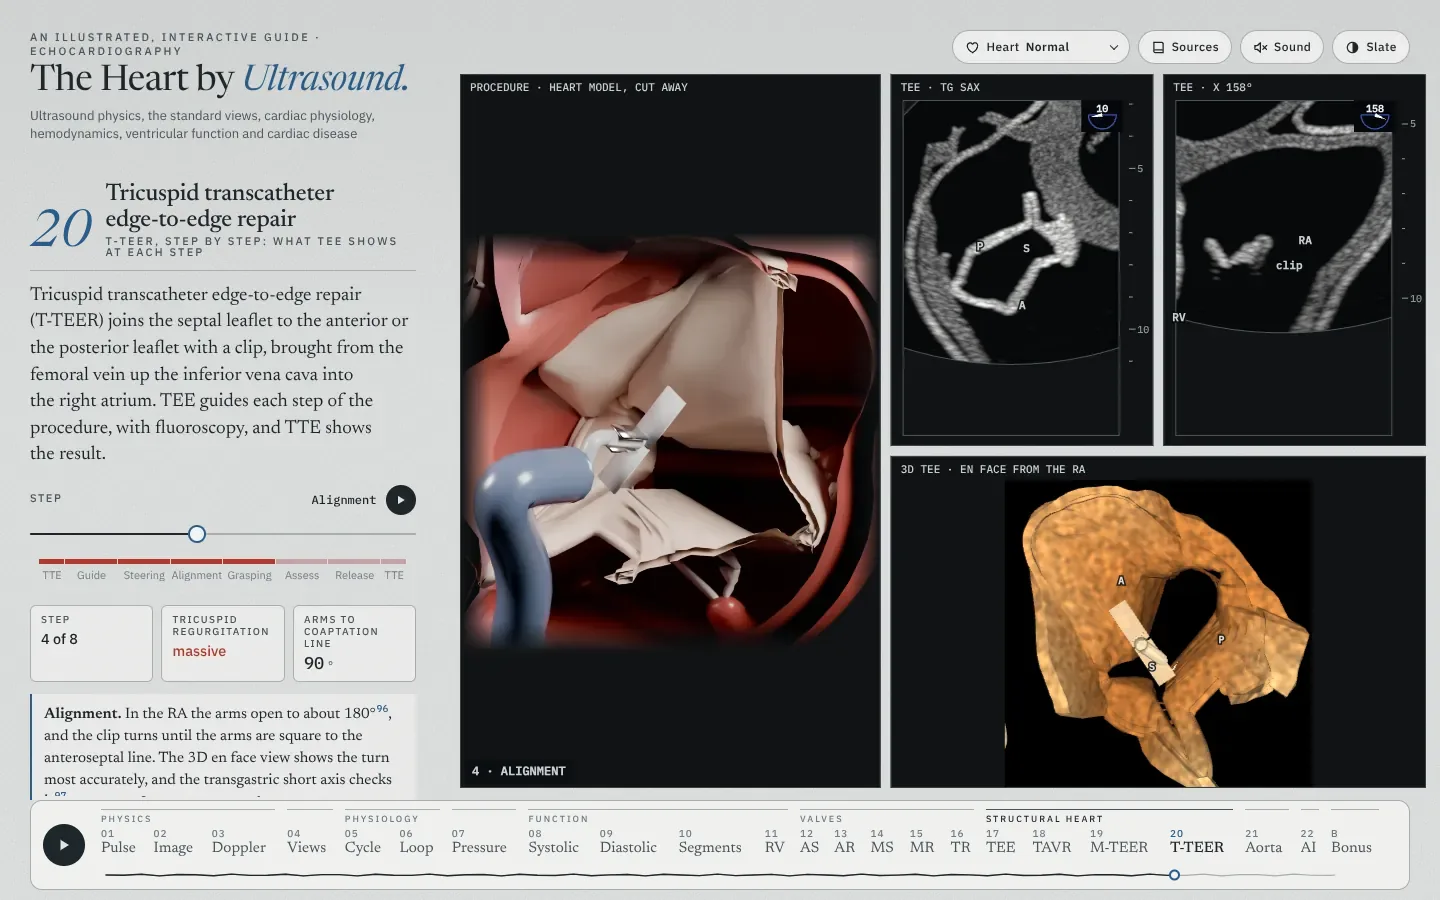
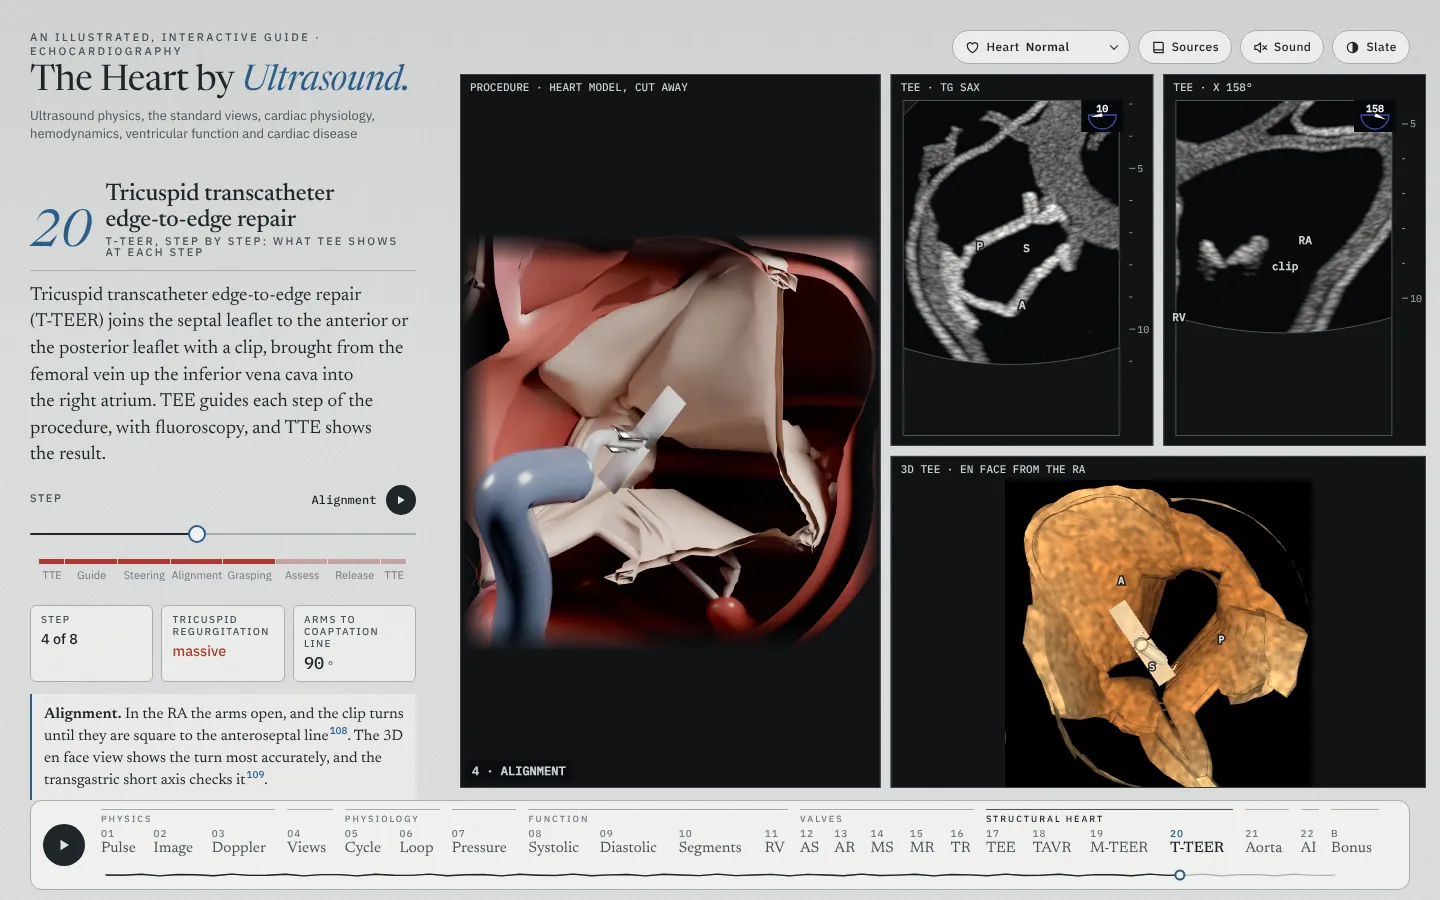
T-TEER: name no company or device, in the chapter and the reel
David asked for the M-TEER rule (aaa8f81) in the T-TEER chapter and in
the reel.

- index.html, chapter 20: the device paragraph in general terms. It
  gives a steerable guide from the femoral vein up the IVC, its 25 Fr
  shaft, an implant with two arms and a gripper over each, the arms'
  sizes and the FDA approval. It gives no name, maker, generation or
  size code. "The anatomy for a clip" is now "The anatomy for TEER".
- The instructions for use and the product page are no longer cited.
  Their statements cite Onishi 2026 (Table 2), Hahn 2025 or the FDA
  panel summary, or they are gone. The arms open in the RA (no angle);
  the clip is closed before it crosses the valve; below it, the arms
  open to 120-150 degrees.
- src/ch/tteer.js: the step notes of the guide, the alignment and the
  grasp follow. The code comments of tteer.js and gl/tteermesh.js name
  no device.
- src/refs.js: the product page is gone, because nothing cites it.
- docs/screenshots/tteer.webp: retaken (the alignment note).
- Reel: the route line says "The clip enters the femoral vein" (seed
  303: VEE-nuh KAY-vuh, read by a phoneme model). The title cards say
  "Transcatheter edge-to-edge repair (T-TEER)". The source lines name
  Onishi 2026, Hahn 2025 and the FDA panel summary. claims.yaml: C34
  and C35 have new sources, C98 and C99 are new, and C93 stays as a
  record. brief.md and assets.yaml follow.
- DEVELOPMENT.md: the reel is 76 s.
[…]

diff --git a/index.html b/index.html
@@ -1903,18 +1903,18 @@
       <p class="live"></p>
       <div class="prose" data-part="prose">
         <h3>The device</h3>
-        <p>The TriClip G4 System (Abbott) brings a clip to the tricuspid valve from the femoral vein<span class="cite" data-ref="fdap230007c"></span>. Its steerable guide catheter has a 25 Fr shaft<span class="cite" data-ref="fdap230007c"></span>. The clip comes in four sizes: arms 9 mm long (NT, NTW) or 12 mm long (XT, XTW), and 4 mm wide or, in the W sizes, 6 mm wide<span class="cite" data-ref="hahn2025,fdap230007c"></span>. The FDA approved it on April 1, 2024, to improve quality of life and functional status in symptomatic severe TR despite optimal medical therapy, at intermediate or greater surgical risk, when a heart team judges the repair appropriate and expects TR of moderate or less<span class="cite" data-ref="fdap230007"></span>. Abbott now sells a fifth generation (G5) in four sizes with the same names<span class="cite" data-ref="abbotttriclip"></span>.</p>
+        <p>A steerable guide catheter enters the femoral vein, usually the right one, and runs up the inferior vena cava to the right atrium<span class="cite" data-ref="onishi2026,hahn2025"></span>. Its shaft is 25 Fr<span class="cite" data-ref="fdapanel2024"></span>. The delivery system goes through it and carries the implant: two rigid arms, with a flexible gripper over each that drops on its own<span class="cite" data-ref="hahn2025"></span>. The arms are 9 or 12 mm long, and 4 or 6 mm wide<span class="cite" data-ref="hahn2025"></span>. The FDA approved a tricuspid TEER system on April 1, 2024, to improve quality of life and functional status in symptomatic severe TR despite optimal medical therapy, at intermediate or greater surgical risk, when a heart team judges the repair appropriate and expects TR of moderate or less<span class="cite" data-ref="fdap230007"></span>.</p>
         <h3>Who is treated</h3>
         <p>TRILUMINATE Pivotal randomly assigned patients with symptomatic severe TR to TEER with medical therapy or to medical therapy alone<span class="cite" data-ref="sorajja2023"></span>. In the first 350 patients, the hierarchical primary end point (death or tricuspid surgery, then heart failure hospitalization, then a gain of at least 15 points in the KCCQ score at 1 year) favored TEER, with a win ratio of 1.48<span class="cite" data-ref="sorajja2023"></span>. At 30 days, TR was moderate or less in 87.0% and 4.8%; at 1 year, the KCCQ score rose by 12.3 and 0.6 points<span class="cite" data-ref="sorajja2023"></span>. Death or surgery and heart failure hospitalization did not appear to differ at 1 year; quality of life carried the result<span class="cite" data-ref="sorajja2023,fdap230007b"></span>. In all 572 randomized patients, heart failure hospitalizations through 2 years were fewer with TEER (0.19 against 0.26 per patient-year), mortality was 17.9% and 17.1%, and 61.5% of the controls crossed over to a tricuspid intervention<span class="cite" data-ref="kar2025"></span>. In Tri.Fr (300 patients), a composite clinical score improved at 1 year in 74.1% with TEER and 40.6% with medical therapy alone<span class="cite" data-ref="donal2025"></span>.</p>
         <p>The 2025 ESC/EACTS guidelines give transcatheter treatment a class IIa recommendation (level A) to improve quality of life and RV remodeling in high-risk patients with symptomatic severe TR despite optimal medical therapy, without severe RV dysfunction or pre-capillary pulmonary hypertension<span class="cite" data-ref="praz2025"></span>.</p>
-        <h3>The anatomy for a clip</h3>
+        <h3>The anatomy for TEER</h3>
         <p>TRILUMINATE excluded a coaptation defect over 2 cm, calcium in the grasping area, and leads that would prevent placement of the clip<span class="cite" data-ref="fdap230007b"></span>, and a valve area of 1.0 cm² or less or a mean gradient of 5 mmHg or more<span class="cite" data-ref="fdapanel2024"></span>. A small gap and a central or anteroseptal jet predicted success in an early series<span class="cite" data-ref="besler2018"></span>; in bRIGHT, the 30-day reduction of TR was similar for gaps under 7 mm, 7–10 mm and over 10 mm<span class="cite" data-ref="donal2024"></span>. In selected patients with a transvalvular pacemaker or defibrillator lead, TR was moderate or less at 30 days as often as without one (88% and 87%)<span class="cite" data-ref="naik2025"></span>.</p>
         <h3>The steps on TEE</h3>
         <ol class="steps">
         <li><b>Guide in the RA.</b> The guide comes up the IVC. The bicaval view at about 90°, with biplane or live 3D, tracks it clear of the septum, the Eustachian valve, a Chiari network and leads<span class="cite" data-ref="hahn2025"></span>.</li>
         <li><b>Steering.</b> The delivery system flexes down toward the annulus; the imager follows it from the bicaval to the four-chamber view, then to the RV inflow view and its biplane pair<span class="cite" data-ref="hahn2025,onishi2026"></span>.</li>
-        <li><b>Alignment.</b> In the RA the arms open to about 180°<span class="cite" data-ref="fdap230007c"></span>, and the clip turns until they lie square to the target line of coaptation: most accurately on the 3D en face view, or on the transgastric short axis<span class="cite" data-ref="hahn2025"></span>. Without a focal defect, the anteroseptal line, usually the longest, comes first<span class="cite" data-ref="hahn2025"></span>. The septal leaflet is grasped with the anterior or the posterior leaflet: a grasp of the anterior and posterior leaflets alone has not been shown to reduce TR<span class="cite" data-ref="onishi2026"></span>. In the RA, each gripper is lowered and raised in turn to check its leaflet<span class="cite" data-ref="hahn2025,onishi2026"></span>.</li>
-        <li><b>Grasping.</b> The arms close to 60° or less, and the clip goes below the valve; the arms open to the grasping angle, the delivery catheter comes back, and the grippers drop onto the leaflets<span class="cite" data-ref="fdap230007c"></span>, slowly and in diastole<span class="cite" data-ref="onishi2026"></span>. 2D views at 0–20° or about 140–160°, the biplane pair from the RV inflow-outflow view with its cursor through the device, or 3D multiplanar reconstruction guide the grasp<span class="cite" data-ref="hahn2025"></span>. The systolic bounce of the grippers may not show on the low-pressure right side<span class="cite" data-ref="hahn2025"></span>; when it shows, it confirms the capture<span class="cite" data-ref="onishi2026"></span>. A tissue bridge on the transgastric short axis or in 3D confirms the insertion; the residual leaflet length, used on the mitral valve, is less reliable here, as the leaflets stretch<span class="cite" data-ref="onishi2026"></span>.</li>
+        <li><b>Alignment.</b> In the RA the arms open, and the clip turns until they lie square to the target line of coaptation<span class="cite" data-ref="onishi2026"></span>: most accurately on the 3D en face view, or on the transgastric short axis<span class="cite" data-ref="hahn2025"></span>. Without a focal defect, the anteroseptal line, usually the longest, comes first<span class="cite" data-ref="hahn2025"></span>. The septal leaflet is grasped with the anterior or the posterior leaflet: a grasp of the anterior and posterior leaflets alone has not been shown to reduce TR<span class="cite" data-ref="onishi2026"></span>. In the RA, each gripper is lowered and raised in turn to check its leaflet<span class="cite" data-ref="hahn2025,onishi2026"></span>.</li>
+        <li><b>Grasping.</b> The clip is closed before it goes below the valve, to keep the leaflets clear of the grippers<span class="cite" data-ref="onishi2026"></span>. There the arms open to 120–150°, the delivery catheter comes back, and the grippers drop onto the leaflets, slowly and in diastole<span class="cite" data-ref="onishi2026"></span>. 2D views at 0–20° or about 140–160°, the biplane pair from the RV inflow-outflow view with its cursor through the device, or 3D multiplanar reconstruction guide the grasp<span class="cite" data-ref="hahn2025"></span>. The systolic bounce of the grippers may not show on the low-pressure right side<span class="cite" data-ref="hahn2025"></span>; when it shows, it confirms the capture<span class="cite" data-ref="onishi2026"></span>. A tissue bridge on the transgastric short axis or in 3D confirms the insertion; the residual leaflet length, used on the mitral valve, is less reliable here, as the leaflets stretch<span class="cite" data-ref="onishi2026"></span>.</li>
         <li><b>Assessment.</b> Before release, TEE checks the insertion again, the reduction of TR and the gradient<span class="cite" data-ref="onishi2026"></span>. The 3D vena contracta area grades the residual TR best, as PISA tends to overestimate it with a clip in place<span class="cite" data-ref="hahn2025"></span>. TVARC asks for a mean gradient under 5 mmHg<span class="cite" data-ref="hahn2023"></span>. In the TriValve registry (top quartile 4.7 mmHg), a higher discharge gradient was not associated with death or heart failure hospitalization at 1 year<span class="cite" data-ref="coisne2023"></span>.</li>
         <li><b>Release.</b> The clip is released, the delivery catheter comes out of it, and the system is withdrawn<span class="cite" data-ref="onishi2026"></span>. In TRILUMINATE, a mean of 2.2 clips was implanted, two or three in about 85% of the patients<span class="cite" data-ref="fdap230007b"></span>; the figure shows the first.</li>
         </ol>

diff --git a/src/ch/tteer.js b/src/ch/tteer.js
@@ -1,4 +1,4 @@
-// Tricuspid transcatheter edge-to-edge repair (T-TEER) with a clip (the TriClip), by the
+// Tricuspid transcatheter edge-to-edge repair (T-TEER) with a clip, by the
 // transfemoral venous route. One slider steps through the procedure, and the figure is the screen
 // that the interventional echocardiographer reads at each step. The case is massive secondary TR
 // with a central coaptation gap (gl/tteermesh.js ttGap), in the dilated RV and RA of chapter
@@ -817,13 +817,13 @@ function liveOf(k, cite) {
     case 'before':
       return `<b>Massive secondary TR.</b> The RV and the annulus are dilated, and the leaflets no longer meet: a central gap lets a wide jet into the RA. Vena contracta ${fmt(BEFORE.vc, 1)} cm, PISA EROA ${fmt(BEFORE.eroa, 2)} cm², in the massive grade of the five-grade scale${cite('hahn2023')}; the hepatic veins show systolic flow reversal${cite('zoghbi2017')}.`;
     case 'guide':
-      return `<b>Guide in the RA.</b> From the femoral vein, the steerable guide comes up the IVC into the RA${cite('fdap230007c')}. Here the four-chamber and RV inflow-outflow views show its tip above the valve; the bicaval view keeps it clear of the septum, the Eustachian valve and leads${cite('hahn2025')}.`;
+      return `<b>Guide in the RA.</b> From the femoral vein, the steerable guide comes up the IVC into the RA${cite('onishi2026,hahn2025')}. Here the four-chamber and RV inflow-outflow views show its tip above the valve; the bicaval view keeps it clear of the septum, the Eustachian valve and leads${cite('hahn2025')}.`;
     case 'steer':
       return `<b>Steering.</b> The delivery system flexes down toward the valve, over the anteroseptal line of coaptation${cite('hahn2025')}. The X-plane from the mid-esophagus shows the clip along the line and across it.`;
     case 'align':
-      return `<b>Alignment.</b> In the RA the arms open to about 180°${cite('fdap230007c')}, and the clip turns until the arms are square to the anteroseptal line. The 3D en face view shows the turn most accurately, and the transgastric short axis checks it${cite('hahn2025')}.`;
+      return `<b>Alignment.</b> In the RA the arms open, and the clip turns until they are square to the anteroseptal line${cite('onishi2026')}. The 3D en face view shows the turn most accurately, and the transgastric short axis checks it${cite('hahn2025')}.`;
     case 'grasp':
-      return `<b>Grasping.</b> The arms close to 60° or less, and the clip goes below the valve into the RV. The arms open to the grasping angle, the clip comes back under the anterior and septal leaflets, and the grippers drop${cite('fdap230007c')}. The X-plane shows both leaflets on the arms before the clip closes${cite('hahn2025')}.`;
+      return `<b>Grasping.</b> The clip is closed and goes below the valve into the RV. The arms open to 120–150°, the clip comes back under the anterior and septal leaflets, and the grippers drop${cite('onishi2026')}. The X-plane shows both leaflets on the arms before the clip closes${cite('hahn2025')}.`;
     case 'assess':
       return `<b>Assessment before release.</b> One jet remains, through the gap beside the clip: ${gradeWord(AFTER)} TR, vena contracta ${fmt(AFTER.vc, 1)} cm. The 3D vena contracta area grades it better than PISA, which tends to overestimate it with a clip in place${cite('hahn2025')}. The mean gradient is ${fmt(MG.after, 1)} mmHg at ${HR} bpm; TVARC asks for less than 5 mmHg${cite('hahn2023')}.`;
     case 'release':

diff --git a/src/refs.js b/src/refs.js
@@ -4,7 +4,6 @@ export const REFS = {
   abbottg4: {"text": "Abbott. MitraClip G4: tailored, optimized, proven. Product brochure MAT-2103793 v1.0. Abbott; 2021.", "url": "https://www.cardiovascular.abbott/content/dam/cv/cardiovascular/au/hcp/structural-heart/pdfs/mitraclip/g4-material-update-brochure.pdf"},
   abbottg4guide: {"text": "Abbott. MitraClip G4 System procedural positioning and imaging guide. MAT-2005413 v1.0. Abbott; 2020.", "url": "https://www.structuralheart.abbott/int/fileadmin/content/Solutions-Products/Mitraclip/G4_Procedural_Positioning_and_Imaging_Guide_MAT-2005413_v1.0.pdf"},
   abbottifu2019: {"text": "Abbott. MitraClip Clip Delivery System: instructions for use (NTR and XTR implants). EL2123340. Abbott; 2019.", "url": "https://manuals.eifu.abbott/content/dam/av/manuals-eifu/vascular/EL2123340.pdf"},
-  abbotttriclip: {"text": "Abbott. TriClip transcatheter valve solutions: product page for U.S. healthcare professionals. Accessed October 24, 2026.", "url": "https://cardiovascular.abbott/us/en/hcp/products/structural-heart/transcatheter-valve-solutions/triclip.html"},
   adler2015: {"text": "Adler Y, Charron P, Imazio M, et al. 2015 ESC Guidelines for the diagnosis and management of pericardial diseases. Eur Heart J 2015;36:2921-2964.", "doi": "10.1093/eurheartj/ehv318", "pmid": "26320112"},
   afshar2026: {"text": "Afshar EJ, Tayebi A, Samimisedeh P, et al. Clinical and Imaging Findings in 504 Cases With Left Ventricular Pseudoaneurysm Following Myocardial Infarction: A Comprehensive Systematic Review and Meta-Analysis. Cardiol Res Pract 2026;2026:9208154.", "doi": "10.1155/crp/9208154", "pmid": "42609766"},
   agricola2023: {"text": "Agricola E, Ancona F, Bartel T, et al. Multimodality imaging for patient selection, procedural guidance, and follow-up of transcatheter interventions for structural heart disease: a consensus document of the EACVI Task Force on Interventional Cardiovascular Imaging: part 1: access routes, transcatheter aortic valve implantation, and transcatheter mitral valve interventions. Eur Heart J Cardiovasc Imaging 2023;24:e209-e268.", "doi": "10.1093/ehjci/jead096", "pmid": "37283275"},

diff --git a/src/gl/tteermesh.js b/src/gl/tteermesh.js
@@ -47,9 +47,9 @@ const turn = (v, k, th) => {
 /** The clip (gl/clipmesh.js CLIP, the NT size) and the catheters' radii. */
 export const CLIP = CM.CLIP;
 /**
- * The catheters' radii (cm): the TriClip G4 steerable guide catheter has a 25 Fr shaft, 8.4 mm
- * across, and the steerable sleeve's distal shaft is 5.3 mm (the instructions for use); the
- * delivery catheter and the rest as in gl/clipmesh.js.
+ * The catheters' radii (cm): the steerable guide catheter has a 25 Fr shaft, 8.4 mm across, and
+ * the steerable sleeve's distal shaft is 5.3 mm (a manufacturer's labeling, src/refs.js
+ * fdap230007c); the delivery catheter and the rest as in gl/clipmesh.js.
  */
 export const CATH = { ...CM.CATH, guide: 0.42, sleeve: 0.265 };
 /** The leaflets: 0 anterior, 1 septal, 2 posterior. */

diff --git a/DEVELOPMENT.md b/DEVELOPMENT.md
@@ -82,7 +82,7 @@ The site's own code draws every video in headless Chromium. The soundtrack is *B
 - **Views video** (`video/index.html`): the standard views of 04 in three panes. Cut A, the full tour (2:24); B, the core views with the nine planes (1:09), the video of chapter 04; C, a quick cut (0:38); D, vertical (1:06).
 - **Chapter videos** (`video/chapter.html?ch=<key>`): one for each chapter, 0:39 to 2:16. The steps and captions are in `video/chapters.js`.
 - **M-TEER with a voice-over** (`?ch=mteer-vo`, 2:36): the figure of chapter 19 with a narrator. ElevenLabs speaks the script (`video/vo/mteer.json`, the premade voice Eric) and gives the time of each spoken letter, so the caption lights each word as it is spoken (`tools/voice/vo.py`). The Bright pulse bed ducks 15 dB under the voice (`tools/voice/mix.py`). Both M-TEER videos show the procedure pane as Blender frames along the steps (`tools/blender/`).
-- **T-TEER reel** (`video/shorts/tteer/`): a vertical explainer, 1080 × 1920 and 77 s, with a voice and without one. `claims.yaml` gives the source of each spoken line and each number on screen, and `script.yaml` the beats. Blender renders the procedure in 64 frames along the steps; the T-TEER chapter video gives the TEE and TTE panes in step with them. ElevenLabs (the stock voice Brian) speaks the lines and times each word for the captions, and `tools/shorts/` composes, mixes and checks the two cuts (`qa.py`: length, loudness, captions, safe zones, copy, claims and the loop).
+- **T-TEER reel** (`video/shorts/tteer/`): a vertical explainer, 1080 × 1920 and 76 s, with a voice and without one. `claims.yaml` gives the source of each spoken line and each number on screen, and `script.yaml` the beats. Blender renders the procedure in 64 frames along the steps; the T-TEER chapter video gives the TEE and TTE panes in step with them. ElevenLabs (the stock voice Brian) speaks the lines and times each word for the captions, and `tools/shorts/` composes, mixes and checks the two cuts (`qa.py`: length, loudness, captions, safe zones, copy, claims and the loop).
 - **Intro** (`video/reel.js`): 89 s, a title card, one clip from each of ten chapters, and the end card.
 - **TAVR procedure** (`tools/tavr-video/`): 64 s. The TEE views of the TAVR and TEE chapters take most of it: the annulus, the valve's position, its depth as the balloon fills, the leak and effusion checks. Blender (Cycles) shots on a CC0 body show the femoral access, the wires, the delivery and the closure. The frame is the chapter videos'. The build is in `tools/tavr-video/README.md`.
 

diff --git a/video/shorts/tteer/brief.md b/video/shorts/tteer/brief.md
@@ -1,11 +1,12 @@
-# T-TEER reel (the TriClip): brief
+# T-TEER reel: brief
 
-- **Topic:** transcatheter edge-to-edge repair of the tricuspid valve (T-TEER) with the TriClip, step by step, as TEE shows it, and what the TRILUMINATE Pivotal trial found.
+- **Topic:** transcatheter edge-to-edge repair of the tricuspid valve (T-TEER) with a clip, step by step, as TEE shows it, and what the TRILUMINATE Pivotal trial found.
 - **Audience:** cardiology fellows, sonographers and cardiologists who do not do structural work.
 - **Length:** about 80 s (the window is 60 to 90 s).
 - **Hook (3 s or less):** the clip on the tricuspid valve, seen from the right atrium. Voice: "Percutaneous tricuspid valve repair."
 - **Cuts:** one with a voice (ElevenLabs, the stock voice Brian), one without a voice (captions only). Both are 1080x1920 at 30 fps.
-- **Visuals:** the echodemo heart model and the TriClip model, rendered in Blender (Cycles); the simulated TEE and TTE panes of the T-TEER chapter (src/ch/tteer.js), in step with the device.
+- **Visuals:** the echodemo heart model and the clip model, rendered in Blender (Cycles); the simulated TEE and TTE panes of the T-TEER chapter (src/ch/tteer.js), in step with the device.
+- **Names:** no company or device on screen or in the voice, and no maker documents as sources, as in the M-TEER and T-TEER chapters. The trials keep their names.
 - **Claims:** `claims.yaml`. A claim with the status `VERIFY` stays out of the reel.
 - **Music:** `tools/score/pulse.py`, seed `TTEER-REEL`, under the voice by 18 to 22 dB.
 - **No publishing:** the files go to David for review.
